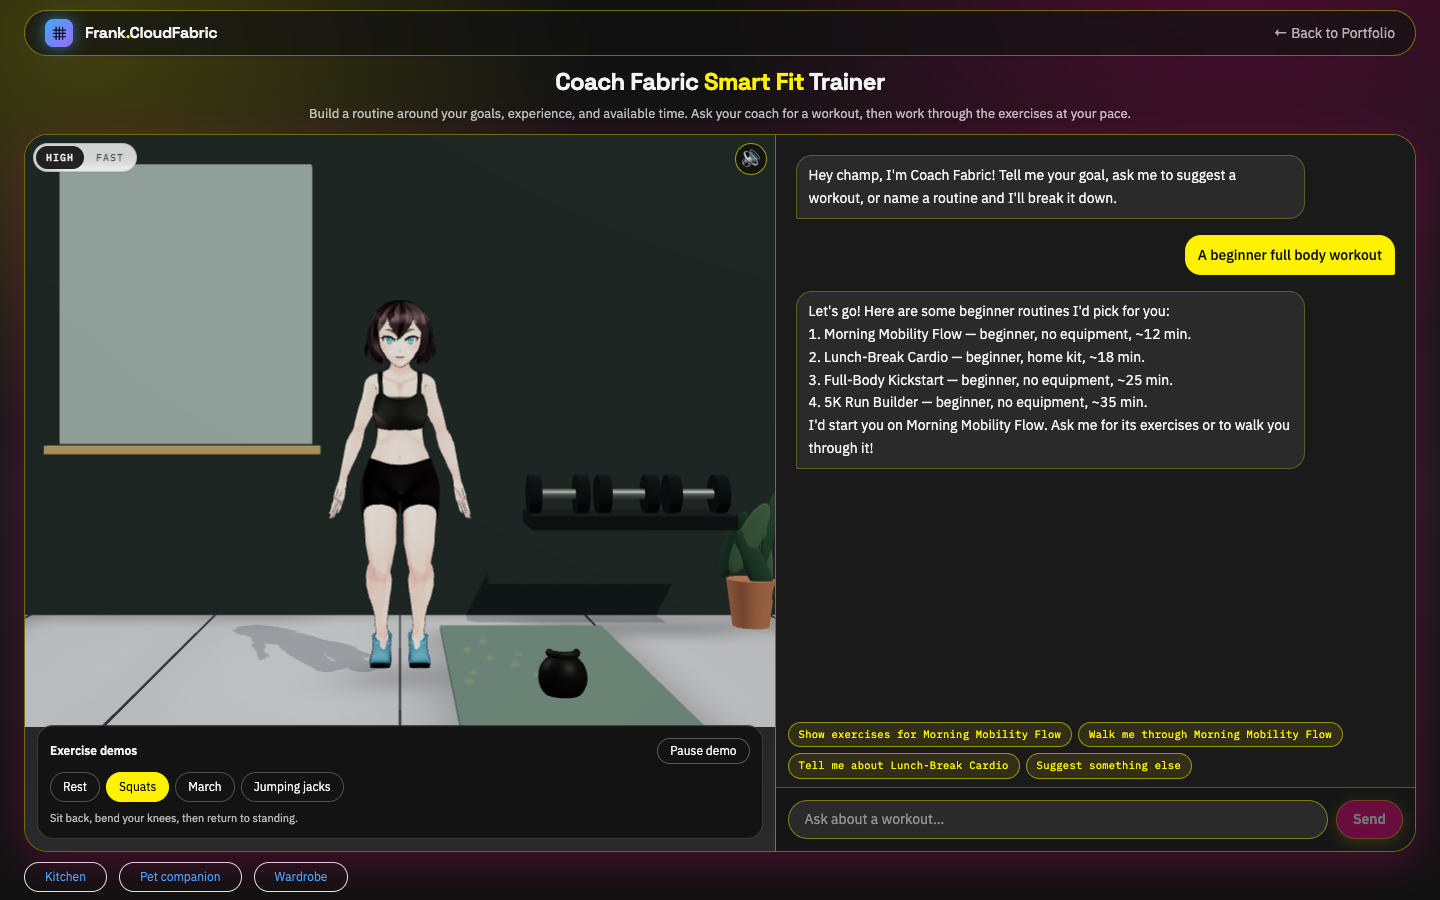
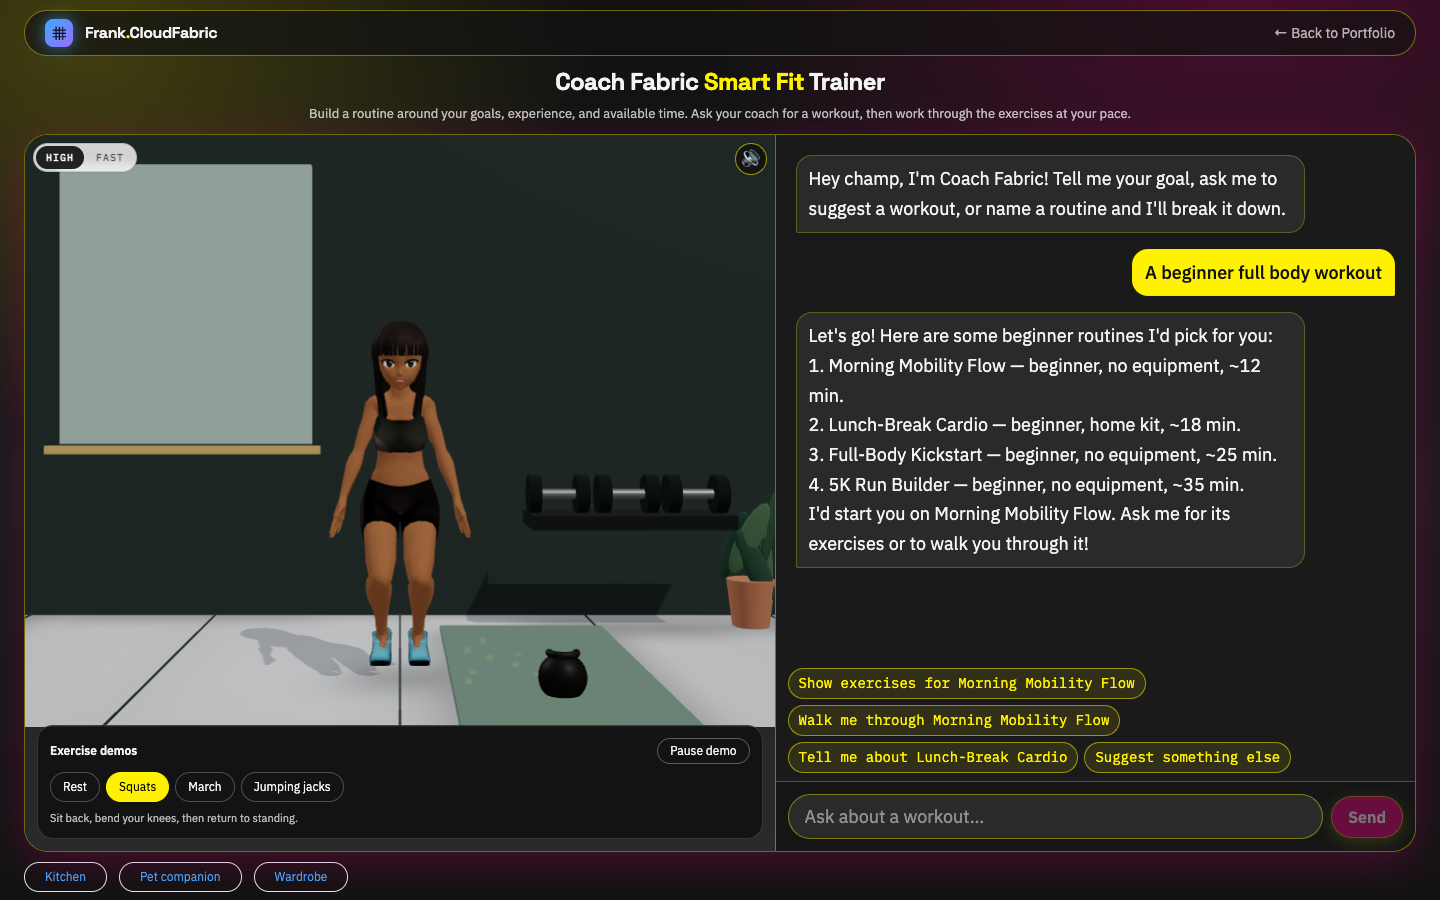
increase chatbot fonts

diff --git a/components/coach/CoachChatbot.tsx b/components/coach/CoachChatbot.tsx
@@ -234,7 +234,7 @@ function CoachChatbotInner() {
               >
                 <div
                   className={[
-                    "max-w-[85%] rounded-2xl px-3 py-2 text-[14px] leading-relaxed whitespace-pre-wrap shadow-sm",
+                    "max-w-[85%] rounded-2xl px-3 py-2 text-[14px] lg:text-[18px] lg:leading-[1.65] leading-relaxed whitespace-pre-wrap shadow-sm",
                     isUser
                       ? "bg-sf-yellow text-sf-black border border-sf-gold/70 rounded-br-sm font-medium"
                       : "bg-sf-gray text-sf-mist border border-sf-yellow/25 rounded-bl-sm",
@@ -249,13 +249,13 @@ function CoachChatbotInner() {
 
         {/* suggestion chips */}
         {suggestions.length > 0 && (
-          <div className="flex flex-wrap gap-1.5 px-3 pb-2">
+          <div className="flex shrink-0 flex-wrap gap-1.5 px-3 pb-2">
             {suggestions.map((chip) => (
               <button
                 key={chip}
                 type="button"
                 onClick={() => send(chip)}
-                className="font-mono text-[10.5px] tracking-wide text-sf-yellow px-2.5 py-1 rounded-full border border-sf-yellow/50 bg-sf-yellow/10 hover:bg-sf-magenta hover:text-white hover:border-sf-magenta focus:outline-none focus:ring-2 focus:ring-sf-yellow transition-colors"
+                className="font-mono text-[10.5px] lg:text-[14px] lg:tracking-normal tracking-wide text-sf-yellow px-2.5 py-1 rounded-full border border-sf-yellow/50 bg-sf-yellow/10 hover:bg-sf-magenta hover:text-white hover:border-sf-magenta focus:outline-none focus:ring-2 focus:ring-sf-yellow transition-colors"
               >
                 {chip}
               </button>
@@ -278,12 +278,12 @@ function CoachChatbotInner() {
             onChange={(event) => setInput(event.target.value)}
             placeholder="Ask about a workout…"
             autoComplete="off"
-            className="flex-1 min-w-0 rounded-full bg-sf-gray border border-sf-yellow/40 px-4 py-2 text-[14px] text-sf-mist placeholder:text-sf-mist/50 focus:outline-none focus:border-sf-yellow focus:ring-2 focus:ring-sf-yellow/40"
+            className="flex-1 min-w-0 rounded-full bg-sf-gray border border-sf-yellow/40 px-4 py-2 text-[14px] lg:text-[18px] text-sf-mist placeholder:text-sf-mist/50 focus:outline-none focus:border-sf-yellow focus:ring-2 focus:ring-sf-yellow/40"
           />
           <button
             type="submit"
             disabled={!input.trim()}
-            className="shrink-0 rounded-full bg-sf-yellow text-sf-black text-[14px] font-bold px-4 py-2 border border-sf-gold/60 shadow-[0_4px_14px_rgba(255,242,0,0.35)] hover:-translate-y-0.5 hover:bg-sf-magenta hover:text-white focus:outline-none focus:ring-2 focus:ring-sf-yellow transition-all disabled:opacity-40 disabled:hover:translate-y-0"
+            className="shrink-0 rounded-full bg-sf-yellow text-sf-black text-[14px] lg:text-[16px] font-bold px-4 py-2 border border-sf-gold/60 shadow-[0_4px_14px_rgba(255,242,0,0.35)] hover:-translate-y-0.5 hover:bg-sf-magenta hover:text-white focus:outline-none focus:ring-2 focus:ring-sf-yellow transition-all disabled:opacity-40 disabled:hover:translate-y-0"
           >
             Send
           </button>

diff --git a/components/chef/ChefChatbot.tsx b/components/chef/ChefChatbot.tsx
@@ -216,7 +216,7 @@ function ChefChatbotInner() {
               >
                 <div
                   className={[
-                    "max-w-[85%] rounded-2xl px-3 py-2 text-[14px] leading-relaxed whitespace-pre-wrap shadow-sm",
+                    "max-w-[85%] rounded-2xl px-3 py-2 text-[14px] lg:text-[18px] lg:leading-[1.65] leading-relaxed whitespace-pre-wrap shadow-sm",
                     isUser
                       ? "bg-ac-sun text-ac-brown border border-ac-orange/50 rounded-br-sm"
                       : "bg-white text-ac-brown border border-ac-leaf/40 rounded-bl-sm",
@@ -231,13 +231,13 @@ function ChefChatbotInner() {
 
         {/* suggestion chips */}
         {suggestions.length > 0 && (
-          <div className="flex flex-wrap gap-1.5 px-3 pb-2">
+          <div className="flex shrink-0 flex-wrap gap-1.5 px-3 pb-2">
             {suggestions.map((chip) => (
               <button
                 key={chip}
                 type="button"
                 onClick={() => send(chip)}
-                className="font-mono text-[10.5px] tracking-wide text-ac-moss px-2.5 py-1 rounded-full border border-ac-leaf/60 bg-ac-leaf/25 hover:bg-ac-leaf/40 hover:border-ac-leafDark focus:outline-none focus:ring-2 focus:ring-ac-leafDark transition-colors"
+                className="font-mono text-[10.5px] lg:text-[14px] lg:tracking-normal tracking-wide text-ac-moss px-2.5 py-1 rounded-full border border-ac-leaf/60 bg-ac-leaf/25 hover:bg-ac-leaf/40 hover:border-ac-leafDark focus:outline-none focus:ring-2 focus:ring-ac-leafDark transition-colors"
               >
                 {chip}
               </button>
@@ -260,12 +260,12 @@ function ChefChatbotInner() {
             onChange={(event) => setInput(event.target.value)}
             placeholder="Ask about a recipe…"
             autoComplete="off"
-            className="flex-1 min-w-0 rounded-full bg-white border border-ac-leaf/50 px-4 py-2 text-[14px] text-ac-brown placeholder:text-ac-brownSoft/70 focus:outline-none focus:border-ac-leafDark focus:ring-2 focus:ring-ac-leafDark/40"
+            className="flex-1 min-w-0 rounded-full bg-white border border-ac-leaf/50 px-4 py-2 text-[14px] lg:text-[18px] text-ac-brown placeholder:text-ac-brownSoft/70 focus:outline-none focus:border-ac-leafDark focus:ring-2 focus:ring-ac-leafDark/40"
           />
           <button
             type="submit"
             disabled={!input.trim()}
-            className="shrink-0 rounded-full bg-ac-leaf text-ac-brown text-[14px] font-semibold px-4 py-2 border border-ac-leafDark/50 shadow-[0_4px_14px_rgba(95,168,90,0.35)] hover:-translate-y-0.5 hover:bg-ac-leafDark hover:text-white focus:outline-none focus:ring-2 focus:ring-ac-leafDark transition-all disabled:opacity-40 disabled:hover:translate-y-0"
+            className="shrink-0 rounded-full bg-ac-leaf text-ac-brown text-[14px] lg:text-[16px] font-semibold px-4 py-2 border border-ac-leafDark/50 shadow-[0_4px_14px_rgba(95,168,90,0.35)] hover:-translate-y-0.5 hover:bg-ac-leafDark hover:text-white focus:outline-none focus:ring-2 focus:ring-ac-leafDark transition-all disabled:opacity-40 disabled:hover:translate-y-0"
           >
             Send
           </button>
